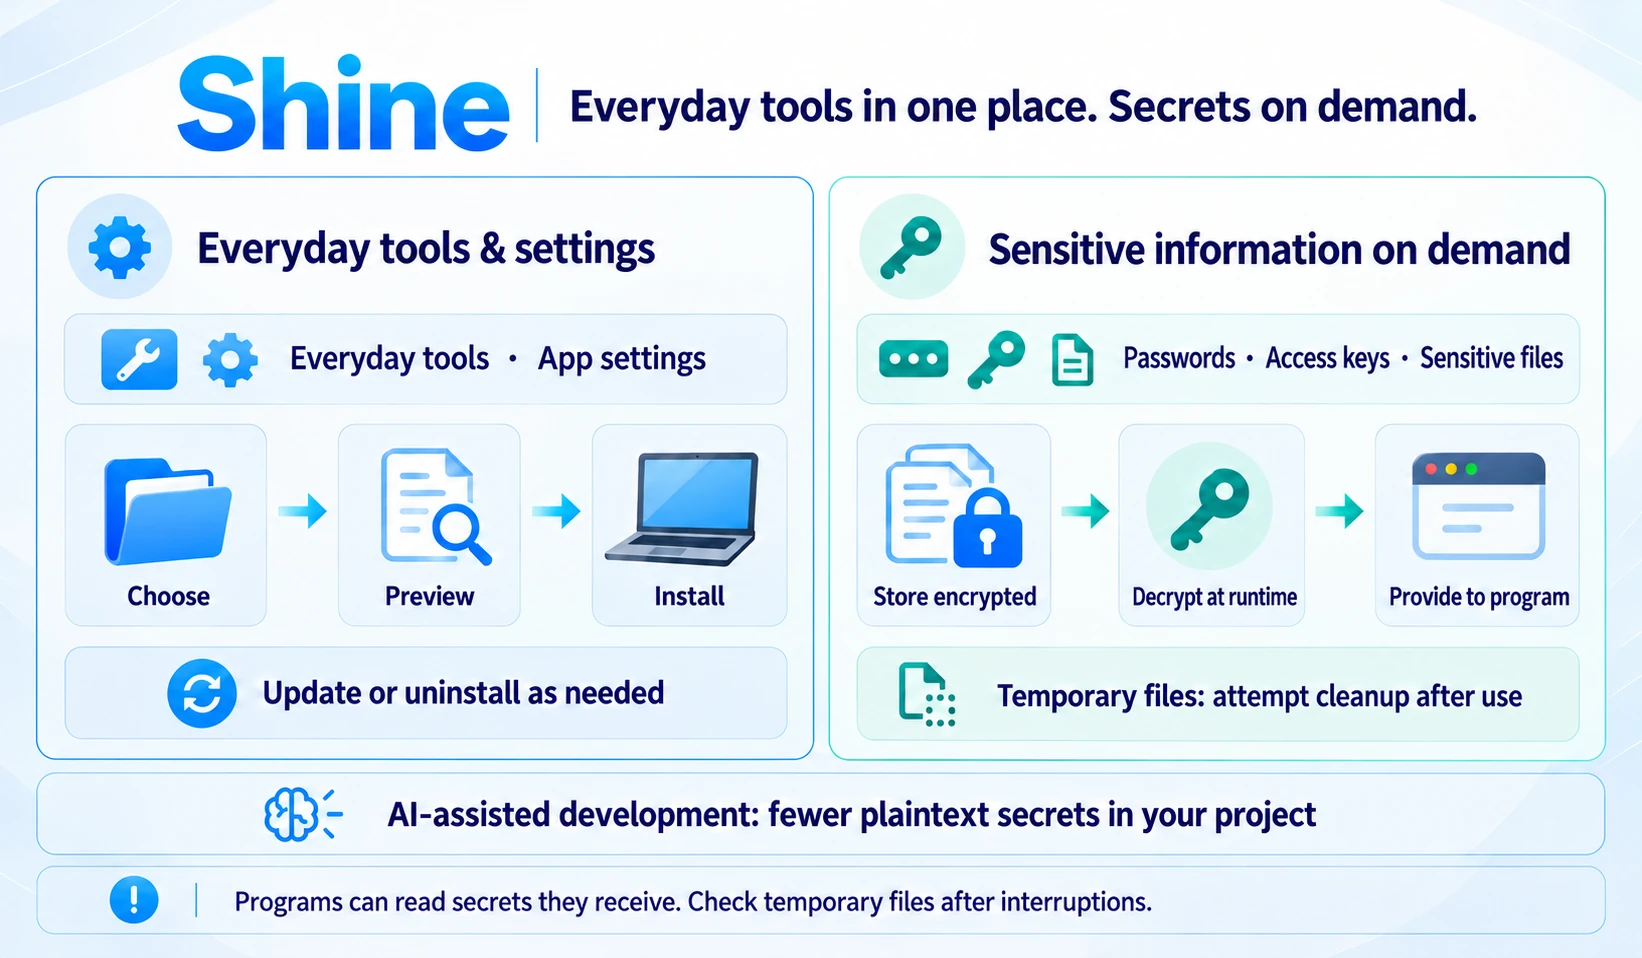
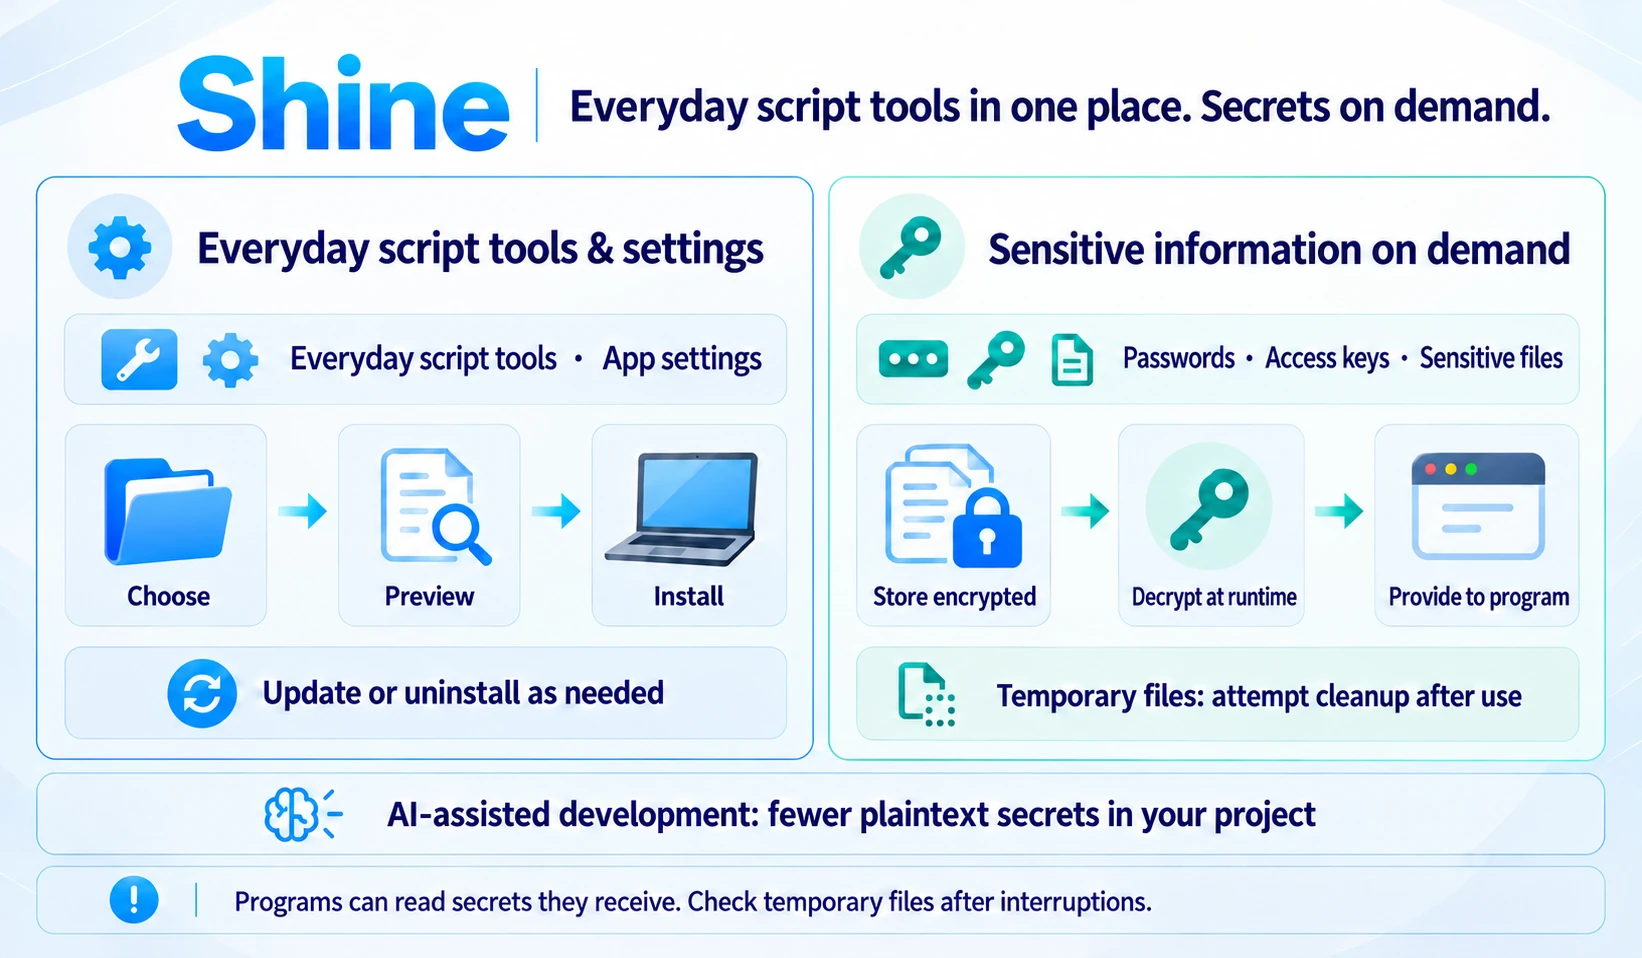
docs: align README and homepage script tool positioning

diff --git a/README.md b/README.md
@@ -1,36 +1,33 @@
 # Shine
 
-Turn the scripts and configuration you use every day into personal tools you can install, update,
-and remove cleanly.
+**Shine helps you manage everyday script tools and application settings, with sensitive information
+stored encrypted and used on demand.**
 
-You may already sync those files between machines. But after they arrive, scripts still need to be
-added to `PATH`, application configuration still needs the right destination, and local values
-should not travel inside shared files. Updating everything by hand also makes it hard to know what
-will be overwritten. Personal configuration also ends up scattered across shell files, application
-directories, and system-specific paths, which makes it difficult to maintain, reuse, or share.
-
-Shine brings your scripts, personal configuration, and their installation rules together in a
-**Preset**. Maintain and share the preset folder in one place; Shine installs each item where it
-belongs. Install only what you need, see what changed before updating, and remove it later without
-deleting unrelated files.
-
-**Give personal automation a reviewable lifecycle.**
+Shine is a command-line tool. Use existing **Presets** without writing scripts yourself, or organize
+your own scripts and configuration for reuse. Required applications and runtimes must be installed
+separately.
 
 **Documentation:** [English](https://biulight.github.io/shine/) ·
 [简体中文](https://biulight.github.io/shine/zh-Hans/)
 
-[![The three core values of Shine: repeatable deployment, one entry point for personal developer resources, and a reviewable lifecycle for Shine-managed content.](website/static/img/shine-core-values-en.webp)](website/static/img/shine-core-values-en.webp)
+[![Shine overview: manage everyday script tools and app settings; store sensitive information encrypted and provide it to programs on demand; reduce plaintext secrets in projects when using AI coding tools.](website/static/img/shine-overview-en.webp)](website/static/img/shine-overview-en.webp)
 
 ## What Shine helps you do
 
-- **Use a script like any other command.** Install it once and call it by name from `PATH`.
-- **Keep personal configuration together.** Maintain it in one preset folder; Shine copies,
-  transforms, or merges each file where its application expects it.
-- **Keep each machine's values on that machine.** A preset declares the keys it needs; you provide
-  the values locally.
-- **Look before you update.** By default, inspect what changed first; Shine applies it only when you
-  choose to upgrade.
-- **Remove only what Shine installed.** Your source folder and unrelated files stay in place.
+- **Reuse scripts and settings.** Keep them together in presets, install what you need, and keep
+  each computer's own values local.
+- **Review changes before applying them.** Inspect changes before updating a preset. By default,
+  uninstall keeps modified files and files Shine cannot confirm it manages for you to review.
+- **Use sensitive information on demand.** Store passwords, access keys, and sensitive files
+  encrypted, then provide them when a selected program runs. See
+  [environment variables and secrets](https://biulight.github.io/shine/guides/environment).
+- **Reduce plaintext secrets during AI-assisted development.** After encrypting sensitive values
+  and handling the original plaintext, reduce the risk of accidental exposure when an AI scans,
+  copies, or commits project files. See
+  [protect secrets when using AI tools](https://biulight.github.io/shine/guides/agent-secret-safety).
+
+Programs that receive secrets or can decrypt them can still read the plaintext. Temporary-file
+cleanup can fail; check for leftovers after an interruption.
 
 ## Try what is already included
 
@@ -51,10 +48,9 @@ Follow the [quick start](https://biulight.github.io/shine/quick-start) for the c
 A preset folder can arrive through any folder-sync tool, archive, network transfer, version-control
 checkout, or manual copy. Shine does not prescribe how you share it.
 
-Your own presets might package batch renaming, image compression and resizing, spreadsheet cleanup,
-or document printing as reusable commands. These are ideas you can build, not bundled tools; each
-command still needs its application or runtime on the machine. Start with the [custom preset
-guide](https://biulight.github.io/shine/guides/custom-presets).
+Your own presets can turn repeated tasks such as batch renaming, spreadsheet cleanup, or document
+printing into reusable commands. Each command still needs its application or runtime on the machine.
+Start with the [custom preset guide](https://biulight.github.io/shine/guides/custom-presets).
 
 Shine can also prepare selected parts of macOS, Ubuntu, or Windows, but it does not take over
 third-party tool versions. See [system initialization](https://biulight.github.io/shine/guides/system-init)

diff --git a/docs/README.zh-CN.md b/docs/README.zh-CN.md
@@ -1,28 +1,25 @@
 # Shine
 
-把你反复使用的脚本和配置，变成随时装得上、更新得了、删得干净的个人工具。
+**Shine 帮你统一管理常用脚本工具和应用配置，让敏感信息加密保存、按需使用。**
 
-你可能已经把这些文件同步到了多台机器，但文件到了，并不等于马上能用：脚本还要加入 `PATH`，
-应用配置要放到正确目录，本地参数也不适合混在共享文件里。手工更新时，还很难判断会不会覆盖
-自己原来的内容。个性化配置往往还散落在 Shell 文件、应用目录和系统路径中，时间久了很难维护，
-也不方便复用或分享。
-
-Shine 用 **Preset（预设）** 把脚本、个性化配置和安装方式集中整理。Preset 文件夹可以统一维护、
-复用和分享，Shine 再把每项内容安装到真正需要它的位置。你可以只安装当前需要的内容，先看变化
-再更新，不需要时再安全移除，不会顺手删掉无关文件。
-
-**让个人自动化拥有可审阅的生命周期。**
+Shine 是命令行工具。你可以直接使用已有的 **Preset（预设）**，无需自己编写脚本，也可以整理自己的
+脚本与配置，方便复用。所需的应用和运行环境需另行安装。
 
 **完整文档：**[简体中文](https://biulight.github.io/shine/zh-Hans/) ·
 [English](https://biulight.github.io/shine/)
 
+[![Shine 功能概览：管理常用脚本工具与应用配置，加密保存敏感信息并按需交给程序，减少 AI 辅助开发时项目中的明文密钥。](../website/static/img/shine-overview-zh-Hans.webp)](../website/static/img/shine-overview-zh-Hans.webp)
+
 ## Shine 能替你做什么
 
-- **让脚本像普通命令一样使用：** 安装一次，就能从 `PATH` 中按名字调用。
-- **把个性化配置集中起来：** 在一个 Preset 文件夹中维护，Shine 再把每个文件安装到应用真正读取的位置。
-- **让每台机器保留自己的参数：** 预设只声明需要哪些键，具体值由每台机器在本地提供。
-- **更新前先看一眼：** 默认先查看发生了什么变化，再由你决定何时升级应用。
-- **不用时只删 Shine 安装的内容：** 来源文件夹和无关文件都会保留。
+- **复用脚本与配置：** 在预设中集中维护，按需安装，每台电脑专用的参数留在本地。
+- **变更前先审阅：** 更新预设前先查看变化；卸载时默认保留被修改或无法确认由 Shine 管理的文件，交给你检查。
+- **敏感信息按需使用：** 将密码、访问密钥和敏感文件加密保存，在运行指定程序时提供。详见
+  [环境变量与密钥](https://biulight.github.io/shine/zh-Hans/guides/environment)。
+- **减少 AI 辅助开发中的明文密钥：** 完成加密并处理原有明文后，降低 AI 扫描、复制或提交项目文件时
+  意外暴露密钥的风险。详见[使用 AI 工具时保护密钥](https://biulight.github.io/shine/zh-Hans/guides/agent-secret-safety)。
+
+获得密钥或具备解密能力的程序仍能读取明文。临时文件清理可能失败，异常中断后应检查残留。
 
 ## 现在就能试
 
@@ -43,9 +40,8 @@ shine info shell/proxy
 预设文件夹可以通过任意文件夹同步工具、压缩包、网络传输、版本管理工作区或手工复制到达机器，
 Shine 不限定你怎样分享它。
 
-你可以把批量重命名、图片压缩与缩放、表格整理或文档打印封装成自己的可复用命令。这些是可以
-自行构建的方向，并非已内置工具；每个命令需要的应用或运行时仍要安装在对应机器上。可以从
-[自定义预设指南](https://biulight.github.io/shine/zh-Hans/guides/custom-presets)开始。
+你可以把批量重命名、表格整理或文档打印等重复操作封装成自己的可复用命令。每个命令需要的应用或
+运行环境仍要安装在对应机器上。可以从[自定义预设指南](https://biulight.github.io/shine/zh-Hans/guides/custom-presets)开始。
 
 Shine 也能初始化 macOS、Ubuntu 或 Windows 的选定部分，但不会接管第三方工具版本；具体边界见
 [系统初始化](https://biulight.github.io/shine/zh-Hans/guides/system-init)。

diff --git a/docs/manual/index.md b/docs/manual/index.md
@@ -2,14 +2,14 @@
 title: Shine
 slug: /
 sidebar_position: 1
-description: Manage everyday tools and application settings, with sensitive information stored encrypted and used on demand.
+description: Manage everyday script tools and application settings, with sensitive information stored encrypted and used on demand.
 ---
 
 # Shine
 
-**Shine helps you manage everyday tools and application settings, with sensitive information stored encrypted and used on demand.**
+**Shine helps you manage everyday script tools and application settings, with sensitive information stored encrypted and used on demand.**
 
-Everyday tools and application settings are often scattered across different locations, making them
+Everyday script tools and application settings are often scattered across different locations, making them
 harder to maintain over time and leaving you to set them up again on another computer. Shine helps
 you manage them in one place. It can also store passwords, access keys, and other sensitive
 information encrypted, then provide it on demand when a selected program runs.
@@ -17,9 +17,9 @@ information encrypted, then provide it on demand when a selected program runs.
 This manual applies to **Shine 2.7.0**. Use the version selector to find the 1.8.x manual.
 Before upgrading from 1.x, read the [upgrade guide](./guides/upgrade-to-2.md).
 
-[![Shine overview: choose, preview, and install everyday tools and app settings; store sensitive information encrypted, decrypt it at runtime, and provide it to a program; reduce plaintext secrets in projects when using AI coding tools. Temporary-file cleanup is attempted after use, and programs can read secrets they receive.](/img/shine-overview-en.webp)](/img/shine-overview-en.webp)
+[![Shine overview: choose, preview, and install everyday script tools and app settings; store sensitive information encrypted, decrypt it at runtime, and provide it to a program; reduce plaintext secrets in projects when using AI coding tools. Temporary-file cleanup is attempted after use, and programs can read secrets they receive.](/img/shine-overview-en.webp)](/img/shine-overview-en.webp)
 
-## Everyday tools and settings
+## Everyday script tools and settings
 
 **You can use existing presets without writing scripts yourself.** A **Preset** groups tool scripts,
 application settings, and installation rules so you can select what you need and install it on

diff --git a/website/versioned_docs/version-2.7/index.md b/website/versioned_docs/version-2.7/index.md
@@ -2,14 +2,14 @@
 title: Shine
 slug: /
 sidebar_position: 1
-description: Manage everyday tools and application settings, with sensitive information stored encrypted and used on demand.
+description: Manage everyday script tools and application settings, with sensitive information stored encrypted and used on demand.
 ---
 
 # Shine
 
-**Shine helps you manage everyday tools and application settings, with sensitive information stored encrypted and used on demand.**
+**Shine helps you manage everyday script tools and application settings, with sensitive information stored encrypted and used on demand.**
 
-Everyday tools and application settings are often scattered across different locations, making them
+Everyday script tools and application settings are often scattered across different locations, making them
 harder to maintain over time and leaving you to set them up again on another computer. Shine helps
 you manage them in one place. It can also store passwords, access keys, and other sensitive
 information encrypted, then provide it on demand when a selected program runs.
@@ -17,9 +17,9 @@ information encrypted, then provide it on demand when a selected program runs.
 This manual applies to **Shine 2.7.0**. Use the version selector to find the 1.8.x manual.
 Before upgrading from 1.x, read the [upgrade guide](./guides/upgrade-to-2.md).
 
-[![Shine overview: choose, preview, and install everyday tools and app settings; store sensitive information encrypted, decrypt it at runtime, and provide it to a program; reduce plaintext secrets in projects when using AI coding tools. Temporary-file cleanup is attempted after use, and programs can read secrets they receive.](/img/shine-overview-en.webp)](/img/shine-overview-en.webp)
+[![Shine overview: choose, preview, and install everyday script tools and app settings; store sensitive information encrypted, decrypt it at runtime, and provide it to a program; reduce plaintext secrets in projects when using AI coding tools. Temporary-file cleanup is attempted after use, and programs can read secrets they receive.](/img/shine-overview-en.webp)](/img/shine-overview-en.webp)
 
-## Everyday tools and settings
+## Everyday script tools and settings
 
 **You can use existing presets without writing scripts yourself.** A **Preset** groups tool scripts,
 application settings, and installation rules so you can select what you need and install it on

diff --git a/website/i18n/zh-Hans/docusaurus-plugin-content-docs/current/index.md b/website/i18n/zh-Hans/docusaurus-plugin-content-docs/current/index.md
@@ -2,22 +2,22 @@
 title: Shine
 slug: /
 sidebar_position: 1
-description: 统一管理常用工具和应用配置，让敏感信息加密保存、按需使用。
+description: 统一管理常用脚本工具和应用配置，让敏感信息加密保存、按需使用。
 ---
 
 # Shine
 
-**Shine 帮你统一管理常用工具和应用配置，让敏感信息加密保存、按需使用。**
+**Shine 帮你统一管理常用脚本工具和应用配置，让敏感信息加密保存、按需使用。**
 
-常用工具和应用配置往往散落在不同位置，时间久了难维护，换一台电脑又要重新整理。
+常用脚本工具和应用配置往往散落在不同位置，时间久了难维护，换一台电脑又要重新整理。
 Shine 帮你集中管理这些内容，也能将密码、访问密钥等敏感信息加密保存，在运行指定程序时按需提供。
 
 当前手册适用于 **Shine 2.7.0**。使用 1.8.x 的用户可通过版本选择器查看对应手册。
 从 1.x 升级前，请先阅读[升级指南](./guides/upgrade-to-2.md)。
 
-[![Shine 功能概览：选择、预览和安装日常工具与应用配置；加密保存敏感信息，运行时解密并交给程序；AI 辅助开发时减少项目中的明文密钥。临时文件结束后尝试清理，程序仍能读取获得的密钥。](/img/shine-overview-zh-Hans.webp)](/img/shine-overview-zh-Hans.webp)
+[![Shine 功能概览：选择、预览和安装日常脚本工具与应用配置；加密保存敏感信息，运行时解密并交给程序；AI 辅助开发时减少项目中的明文密钥。临时文件结束后尝试清理，程序仍能读取获得的密钥。](/img/shine-overview-zh-Hans.webp)](/img/shine-overview-zh-Hans.webp)
 
-## 日常工具与配置
+## 日常脚本工具与配置
 
 **无需自己编写脚本，也能使用已有预设。** Preset（预设）把工具脚本、应用配置和安装规则整理在一起，
 方便选择需要的内容，在不同电脑上重复安装。Shine 是命令行工具，使用时需要打开终端；

diff --git a/website/i18n/zh-Hans/docusaurus-plugin-content-docs/version-2.7/index.md b/website/i18n/zh-Hans/docusaurus-plugin-content-docs/version-2.7/index.md
@@ -2,22 +2,22 @@
 title: Shine
 slug: /
 sidebar_position: 1
-description: 统一管理常用工具和应用配置，让敏感信息加密保存、按需使用。
+description: 统一管理常用脚本工具和应用配置，让敏感信息加密保存、按需使用。
 ---
 
 # Shine
 
-**Shine 帮你统一管理常用工具和应用配置，让敏感信息加密保存、按需使用。**
+**Shine 帮你统一管理常用脚本工具和应用配置，让敏感信息加密保存、按需使用。**
 
-常用工具和应用配置往往散落在不同位置，时间久了难维护，换一台电脑又要重新整理。
+常用脚本工具和应用配置往往散落在不同位置，时间久了难维护，换一台电脑又要重新整理。
 Shine 帮你集中管理这些内容，也能将密码、访问密钥等敏感信息加密保存，在运行指定程序时按需提供。
 
 当前手册适用于 **Shine 2.7.0**。使用 1.8.x 的用户可通过版本选择器查看对应手册。
 从 1.x 升级前，请先阅读[升级指南](./guides/upgrade-to-2.md)。
 
-[![Shine 功能概览：选择、预览和安装日常工具与应用配置；加密保存敏感信息，运行时解密并交给程序；AI 辅助开发时减少项目中的明文密钥。临时文件结束后尝试清理，程序仍能读取获得的密钥。](/img/shine-overview-zh-Hans.webp)](/img/shine-overview-zh-Hans.webp)
+[![Shine 功能概览：选择、预览和安装日常脚本工具与应用配置；加密保存敏感信息，运行时解密并交给程序；AI 辅助开发时减少项目中的明文密钥。临时文件结束后尝试清理，程序仍能读取获得的密钥。](/img/shine-overview-zh-Hans.webp)](/img/shine-overview-zh-Hans.webp)
 
-## 日常工具与配置
+## 日常脚本工具与配置
 
 **无需自己编写脚本，也能使用已有预设。** Preset（预设）把工具脚本、应用配置和安装规则整理在一起，
 方便选择需要的内容，在不同电脑上重复安装。Shine 是命令行工具，使用时需要打开终端；
